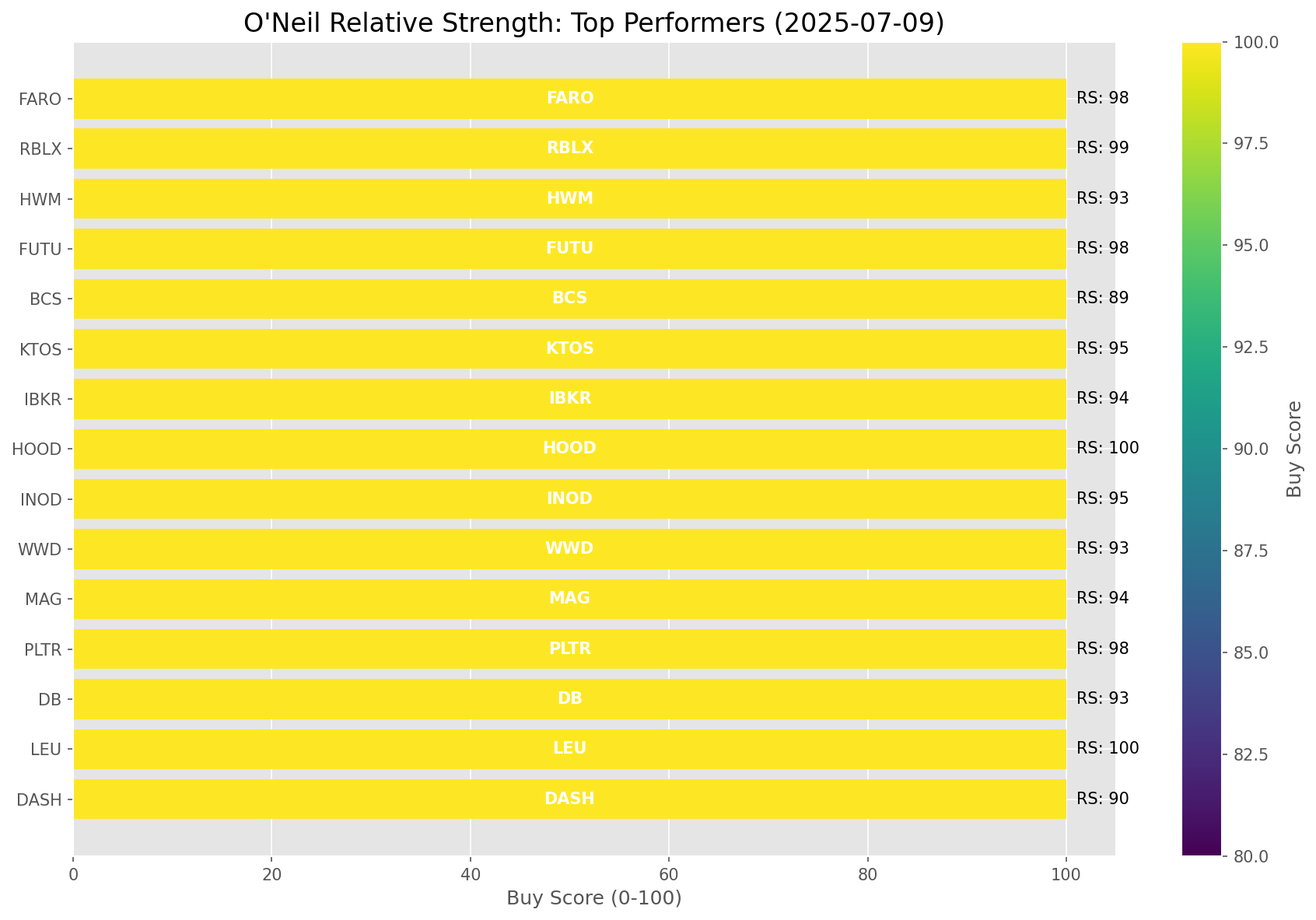
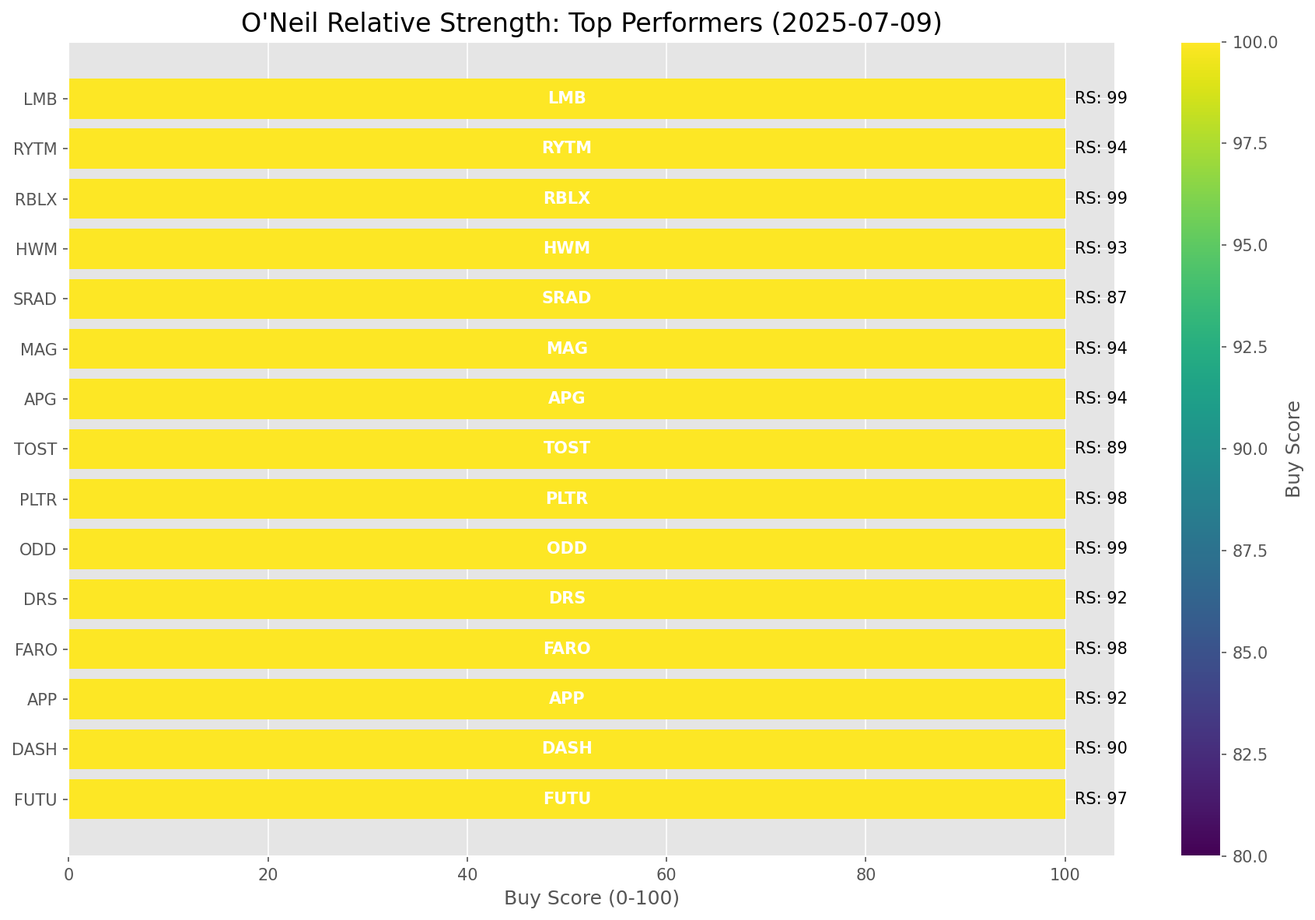
Add market report for 2025-07-09

diff --git a/oneil_relative_strength_report_2025-07-09.md b/oneil_relative_strength_report_2025-07-09.md
@@ -9,11 +9,11 @@
 | Metric | Value |
 |--------|-------|
 | **Market Valuation** | **Overvalued** |
-| **Current Ratio** | 10.25 |
+| **Current Ratio** | 10.26 |
 | **Historical Mean** | 9.42 |
 | **Standard Deviation** | 0.50 |
 | **Z-Score (StdDev from Mean)** | 1.54 |
-| **Total Market Cap** | $307.20 trillion |
+| **Total Market Cap** | $307.50 trillion |
 | **GDP** | $29.96 trillion |
 
 ## **Market Insights**
@@ -49,41 +49,41 @@ Based on William O'Neil's Relative Strength Methodology
 
 | ETF | Strength | RS Rating | Performance | Above Key MAs | Trend | Sector |
 |-----|----------|-----------|-------------|--------------|-------|--------|
-| [ARKW](https://www.tradingview.com/chart/?symbol=ARKW) | 98.5 | 97.0 | 75.55% | 10d ✓, 50d ✓, 200d ✓ | ↗ | Next Generation Internet |
-| [ARKF](https://www.tradingview.com/chart/?symbol=ARKF) | 98.0 | 96.0 | 70.98% | 10d ✓, 50d ✓, 200d ✓ | ↗ | Fintech Innovation |
-| [ARKK](https://www.tradingview.com/chart/?symbol=ARKK) | 98.0 | 96.0 | 70.67% | 10d ✓, 50d ✓, 200d ✓ | ↗ | Innovation |
-| [BLOK](https://www.tradingview.com/chart/?symbol=BLOK) | 96.0 | 92.0 | 52.65% | 10d ✓, 50d ✓, 200d ✓ | ↗ | Blockchain & Cryptocurrency |
-| [XLK](https://www.tradingview.com/chart/?symbol=XLK) | 92.5 | 85.0 | 40.28% | 10d ✓, 50d ✓, 200d ✓ | ↗ | Technology |
-| [AIQ](https://www.tradingview.com/chart/?symbol=AIQ) | 90.5 | 81.0 | 35.95% | 10d ✓, 50d ✓, 200d ✓ | ↗ | Artificial Intelligence & Technology |
-| [JETS](https://www.tradingview.com/chart/?symbol=JETS) | 89.0 | 78.0 | 32.19% | 10d ✓, 50d ✓, 200d ✓ | ↗ | Airlines |
-| [CIBR](https://www.tradingview.com/chart/?symbol=CIBR) | 89.0 | 78.0 | 32.07% | 10d ✓, 50d ✓, 200d ✓ | ↗ | Cybersecurity |
+| [ARKW](https://www.tradingview.com/chart/?symbol=ARKW) | 98.5 | 97.0 | 76.14% | 10d ✓, 50d ✓, 200d ✓ | ↗ | Next Generation Internet |
+| [ARKF](https://www.tradingview.com/chart/?symbol=ARKF) | 98.0 | 96.0 | 71.57% | 10d ✓, 50d ✓, 200d ✓ | ↗ | Fintech Innovation |
+| [ARKK](https://www.tradingview.com/chart/?symbol=ARKK) | 98.0 | 96.0 | 71.17% | 10d ✓, 50d ✓, 200d ✓ | ↗ | Innovation |
+| [BLOK](https://www.tradingview.com/chart/?symbol=BLOK) | 96.0 | 92.0 | 54.17% | 10d ✓, 50d ✓, 200d ✓ | ↗ | Blockchain & Cryptocurrency |
+| [XLK](https://www.tradingview.com/chart/?symbol=XLK) | 92.5 | 85.0 | 40.54% | 10d ✓, 50d ✓, 200d ✓ | ↗ | Technology |
+| [AIQ](https://www.tradingview.com/chart/?symbol=AIQ) | 90.5 | 81.0 | 36.06% | 10d ✓, 50d ✓, 200d ✓ | ↗ | Artificial Intelligence & Technology |
+| [JETS](https://www.tradingview.com/chart/?symbol=JETS) | 89.0 | 78.0 | 32.46% | 10d ✓, 50d ✓, 200d ✓ | ↗ | Airlines |
 | [URA](https://www.tradingview.com/chart/?symbol=URA) | 88.6 | 97.0 | 79.08% | 10d ✗, 50d ✓, 200d ✓ | ↗ | Uranium |
-| [PAVE](https://www.tradingview.com/chart/?symbol=PAVE) | 87.5 | 75.0 | 30.19% | 10d ✓, 50d ✓, 200d ✓ | ↗ | Infrastructure |
-| [XLI](https://www.tradingview.com/chart/?symbol=XLI) | 85.5 | 71.0 | 27.47% | 10d ✓, 50d ✓, 200d ✓ | ↗ | Industrial |
-| [XLY](https://www.tradingview.com/chart/?symbol=XLY) | 79.5 | 59.0 | 21.07% | 10d ✓, 50d ✓, 200d ✓ | ↗ | Consumer Discretionary |
-| [IYZ](https://www.tradingview.com/chart/?symbol=IYZ) | 77.0 | 54.0 | 18.60% | 10d ✓, 50d ✓, 200d ✓ | ↗ | Telecommunications |
-| [SOXX](https://www.tradingview.com/chart/?symbol=SOXX) | 75.5 | 91.0 | 51.31% | 10d ✓, 50d ✓, 200d ✓ | ↘ | Semiconductors |
-| [XLC](https://www.tradingview.com/chart/?symbol=XLC) | 71.1 | 62.0 | 22.67% | 10d ✗, 50d ✓, 200d ✓ | ↗ | Communications |
-| [ARKG](https://www.tradingview.com/chart/?symbol=ARKG) | 70.5 | 81.0 | 35.18% | 10d ✓, 50d ✓, 200d ✓ | ↘ | Genomics |
-| [SLV](https://www.tradingview.com/chart/?symbol=SLV) | 70.1 | 60.0 | 21.72% | 10d ✗, 50d ✓, 200d ✓ | ↗ | Silver |
-| [XLU](https://www.tradingview.com/chart/?symbol=XLU) | 70.0 | 40.0 | 11.68% | 10d ✓, 50d ✓, 200d ✓ | ↗ | Utilities |
-| [XLF](https://www.tradingview.com/chart/?symbol=XLF) | 67.1 | 54.0 | 18.61% | 10d ✗, 50d ✓, 200d ✓ | ↗ | Financial |
-| [ICLN](https://www.tradingview.com/chart/?symbol=ICLN) | 65.0 | 70.0 | 26.74% | 10d ✓, 50d ✓, 200d ✓ | ↘ | Clean Energy |
-| [KWEB](https://www.tradingview.com/chart/?symbol=KWEB) | 64.1 | 48.0 | 15.69% | 10d ✗, 50d ✓, 200d ✓ | ↗ | Chinese Internet |
-| [IYT](https://www.tradingview.com/chart/?symbol=IYT) | 64.0 | 68.0 | 25.30% | 10d ✓, 50d ✓, 200d ✓ | ↘ | Transportation |
-| [XLB](https://www.tradingview.com/chart/?symbol=XLB) | 58.0 | 56.0 | 19.54% | 10d ✓, 50d ✓, 200d ✓ | ↘ | Materials |
-| [GLD](https://www.tradingview.com/chart/?symbol=GLD) | 50.2 | 40.0 | 11.59% | 10d ✗, 50d ✗, 200d ✓ | ↗ | Gold |
-| [DBC](https://www.tradingview.com/chart/?symbol=DBC) | 46.0 | 32.0 | 8.19% | 10d ✓, 50d ✓, 200d ✓ | ↘ | Commodities |
-| [IBB](https://www.tradingview.com/chart/?symbol=IBB) | 41.8 | 44.0 | 13.48% | 10d ✓, 50d ✓, 200d ✗ | ↘ | Biotechnology |
-| [XLE](https://www.tradingview.com/chart/?symbol=XLE) | 40.8 | 42.0 | 12.47% | 10d ✓, 50d ✓, 200d ✗ | ↘ | Energy |
-| [ITB](https://www.tradingview.com/chart/?symbol=ITB) | 38.8 | 38.0 | 10.77% | 10d ✓, 50d ✓, 200d ✗ | ↘ | Home Construction |
-| [IYR](https://www.tradingview.com/chart/?symbol=IYR) | 37.8 | 36.0 | 9.70% | 10d ✓, 50d ✓, 200d ✗ | ↘ | Real Estate |
-| [XLP](https://www.tradingview.com/chart/?symbol=XLP) | 32.0 | 24.0 | 4.07% | 10d ✗, 50d ✗, 200d ✗ | ↗ | Consumer Staples |
-| [XLV](https://www.tradingview.com/chart/?symbol=XLV) | 28.3 | 17.0 | 0.59% | 10d ✓, 50d ✓, 200d ✗ | ↘ | Healthcare |
-| [DBA](https://www.tradingview.com/chart/?symbol=DBA) | 24.5 | 9.0 | -4.60% | 10d ✗, 50d ✗, 200d ✗ | ↗ | Agriculture |
-| [TLT](https://www.tradingview.com/chart/?symbol=TLT) | 14.4 | 9.0 | -3.56% | 10d ✗, 50d ✓, 200d ✗ | ↘ | Long-term Treasuries |
-| [UUP](https://www.tradingview.com/chart/?symbol=UUP) | 14.4 | 9.0 | -4.51% | 10d ✓, 50d ✗, 200d ✗ | ↘ | U.S. Dollar |
-| [BIL](https://www.tradingview.com/chart/?symbol=BIL) | 7.5 | 15.0 | 0.03% | 10d ✗, 50d ✗, 200d ✗ | ↘ | Short-term Treasuries |
+| [CIBR](https://www.tradingview.com/chart/?symbol=CIBR) | 88.5 | 77.0 | 32.25% | 10d ✓, 50d ✓, 200d ✓ | ↗ | Cybersecurity |
+| [PAVE](https://www.tradingview.com/chart/?symbol=PAVE) | 87.5 | 75.0 | 30.64% | 10d ✓, 50d ✓, 200d ✓ | ↗ | Infrastructure |
+| [XLI](https://www.tradingview.com/chart/?symbol=XLI) | 85.5 | 71.0 | 27.69% | 10d ✓, 50d ✓, 200d ✓ | ↗ | Industrial |
+| [XLY](https://www.tradingview.com/chart/?symbol=XLY) | 79.0 | 58.0 | 21.21% | 10d ✓, 50d ✓, 200d ✓ | ↗ | Consumer Discretionary |
+| [XLF](https://www.tradingview.com/chart/?symbol=XLF) | 77.0 | 54.0 | 18.85% | 10d ✓, 50d ✓, 200d ✓ | ↗ | Financial |
+| [IYZ](https://www.tradingview.com/chart/?symbol=IYZ) | 76.5 | 53.0 | 18.50% | 10d ✓, 50d ✓, 200d ✓ | ↗ | Telecommunications |
+| [SOXX](https://www.tradingview.com/chart/?symbol=SOXX) | 75.5 | 91.0 | 51.37% | 10d ✓, 50d ✓, 200d ✓ | ↘ | Semiconductors |
+| [XLC](https://www.tradingview.com/chart/?symbol=XLC) | 70.6 | 61.0 | 22.56% | 10d ✗, 50d ✓, 200d ✓ | ↗ | Communications |
+| [ARKG](https://www.tradingview.com/chart/?symbol=ARKG) | 70.5 | 81.0 | 35.78% | 10d ✓, 50d ✓, 200d ✓ | ↘ | Genomics |
+| [SLV](https://www.tradingview.com/chart/?symbol=SLV) | 69.6 | 59.0 | 21.59% | 10d ✗, 50d ✓, 200d ✓ | ↗ | Silver |
+| [XLU](https://www.tradingview.com/chart/?symbol=XLU) | 69.5 | 39.0 | 11.60% | 10d ✓, 50d ✓, 200d ✓ | ↗ | Utilities |
+| [ICLN](https://www.tradingview.com/chart/?symbol=ICLN) | 65.0 | 70.0 | 26.51% | 10d ✓, 50d ✓, 200d ✓ | ↘ | Clean Energy |
+| [KWEB](https://www.tradingview.com/chart/?symbol=KWEB) | 64.1 | 48.0 | 15.91% | 10d ✗, 50d ✓, 200d ✓ | ↗ | Chinese Internet |
+| [IYT](https://www.tradingview.com/chart/?symbol=IYT) | 63.5 | 67.0 | 25.32% | 10d ✓, 50d ✓, 200d ✓ | ↘ | Transportation |
+| [XLB](https://www.tradingview.com/chart/?symbol=XLB) | 58.0 | 56.0 | 19.77% | 10d ✓, 50d ✓, 200d ✓ | ↘ | Materials |
+| [GLD](https://www.tradingview.com/chart/?symbol=GLD) | 49.7 | 39.0 | 11.62% | 10d ✗, 50d ✗, 200d ✓ | ↗ | Gold |
+| [DBC](https://www.tradingview.com/chart/?symbol=DBC) | 45.5 | 31.0 | 8.10% | 10d ✓, 50d ✓, 200d ✓ | ↘ | Commodities |
+| [IBB](https://www.tradingview.com/chart/?symbol=IBB) | 41.8 | 44.0 | 13.84% | 10d ✓, 50d ✓, 200d ✗ | ↘ | Biotechnology |
+| [XLE](https://www.tradingview.com/chart/?symbol=XLE) | 40.3 | 41.0 | 12.54% | 10d ✓, 50d ✓, 200d ✗ | ↘ | Energy |
+| [ITB](https://www.tradingview.com/chart/?symbol=ITB) | 39.8 | 40.0 | 11.81% | 10d ✓, 50d ✓, 200d ✗ | ↘ | Home Construction |
+| [IYR](https://www.tradingview.com/chart/?symbol=IYR) | 37.3 | 35.0 | 9.63% | 10d ✓, 50d ✓, 200d ✗ | ↘ | Real Estate |
+| [XLP](https://www.tradingview.com/chart/?symbol=XLP) | 32.0 | 24.0 | 4.22% | 10d ✗, 50d ✗, 200d ✗ | ↗ | Consumer Staples |
+| [XLV](https://www.tradingview.com/chart/?symbol=XLV) | 28.3 | 17.0 | 0.76% | 10d ✓, 50d ✓, 200d ✗ | ↘ | Healthcare |
+| [DBA](https://www.tradingview.com/chart/?symbol=DBA) | 26.0 | 12.0 | -0.80% | 10d ✗, 50d ✗, 200d ✗ | ↗ | Agriculture |
+| [TLT](https://www.tradingview.com/chart/?symbol=TLT) | 14.4 | 9.0 | -3.46% | 10d ✗, 50d ✓, 200d ✗ | ↘ | Long-term Treasuries |
+| [UUP](https://www.tradingview.com/chart/?symbol=UUP) | 13.9 | 8.0 | -4.55% | 10d ✓, 50d ✗, 200d ✗ | ↘ | U.S. Dollar |
+| [BIL](https://www.tradingview.com/chart/?symbol=BIL) | 7.0 | 14.0 | 0.03% | 10d ✗, 50d ✗, 200d ✗ | ↘ | Short-term Treasuries |
 
 ### **Sector ETF Performance Interpretation**
 
@@ -100,165 +100,156 @@ This table shows the relative strength metrics for different market sectors base
 
 The current market leadership is coming from the following sectors: **Next Generation Internet, Fintech Innovation, Innovation**.
 
-The **Next Generation Internet** sector (represented by **ARKW**) is showing particularly strong relative strength with an RS rating of 97.0 and performance of 75.55% vs. the S&P 500. This sector is trading above its 10-day, 50-day, 200-day moving average(s). Investors should consider focusing on high RS stocks within these leading sectors for potential outperformance.
+The **Next Generation Internet** sector (represented by **ARKW**) is showing particularly strong relative strength with an RS rating of 97.0 and performance of 76.14% vs. the S&P 500. This sector is trading above its 10-day, 50-day, 200-day moving average(s). Investors should consider focusing on high RS stocks within these leading sectors for potential outperformance.
 
 ---
 
 ## **Buy Recommendations**
 
-The following 47 stocks show exceptional relative strength:
+The following 55 stocks show exceptional relative strength:
 
 | RS Rating | Buy Score | Current Price | Chart | Name | Ticker |
 |-----------|-----------|---------------|-------|------|--------|
-| 100 | 100 | $177.65 | [Chart](https://www.tradingview.com/chart/?symbol=LEU) | Centrus Energy Corp. | LEU |
-| 100 | 100 | $93.77 | [Chart](https://www.tradingview.com/chart/?symbol=HOOD) | Robinhood Markets, Inc. Class A Common Stock | HOOD |
-| 99 | 100 | $106.47 | [Chart](https://www.tradingview.com/chart/?symbol=RBLX) | Roblox Corporation | RBLX |
-| 99 | 100 | $143.48 | [Chart](https://www.tradingview.com/chart/?symbol=LMB) | Limbach Holdings, Inc Common Stock | LMB |
-| 99 | 100 | $76.25 | [Chart](https://www.tradingview.com/chart/?symbol=ODD) | ODDITY Tech Ltd. Class A Ordinary Shares | ODD |
-| 99 | 100 | $349.91 | [Chart](https://www.tradingview.com/chart/?symbol=CVNA) | Carvana Co. | CVNA |
-| 98 | 100 | $142.50 | [Chart](https://www.tradingview.com/chart/?symbol=PLTR) | Palantir Technologies Inc. Class A Common Stock | PLTR |
-| 98 | 100 | $143.06 | [Chart](https://www.tradingview.com/chart/?symbol=FUTU) | Futu Holdings Limited American Depositary Shares | FUTU |
-| 98 | 100 | $43.92 | [Chart](https://www.tradingview.com/chart/?symbol=FARO) | Faro Technologies Inc | FARO |
-| 98 | 100 | $104.75 | [Chart](https://www.tradingview.com/chart/?symbol=VRNA) | Verona Pharma plc | VRNA |
-| 98 | 100 | $536.32 | [Chart](https://www.tradingview.com/chart/?symbol=GEV) | GE Vernova Inc. | GEV |
-| 97 | 100 | $316.80 | [Chart](https://www.tradingview.com/chart/?symbol=ZS) | Zscaler, Inc. Common Stock | ZS |
-| 96 | 100 | $91.65 | [Chart](https://www.tradingview.com/chart/?symbol=RBRK) | Rubrik, Inc. | RBRK |
-| 96 | 100 | $51.05 | [Chart](https://www.tradingview.com/chart/?symbol=ARKF) | ARK Fintech Innovation ETF | ARKF |
-| 96 | 100 | $38.38 | [Chart](https://www.tradingview.com/chart/?symbol=AS) | Amer Sports, Inc. | AS |
-| 95 | 100 | $51.78 | [Chart](https://www.tradingview.com/chart/?symbol=INOD) | Innodata Inc. | INOD |
-| 95 | 100 | $45.96 | [Chart](https://www.tradingview.com/chart/?symbol=KTOS) | Kratos Defense & Security Solutions, Inc. | KTOS |
-| 94 | 100 | $21.37 | [Chart](https://www.tradingview.com/chart/?symbol=MAG) | MAG Silver Corp. | MAG |
-| 94 | 100 | $58.27 | [Chart](https://www.tradingview.com/chart/?symbol=IBKR) | Interactive Brokers Group, Inc. Class A Common Stock | IBKR |
-| 94 | 100 | $87.04 | [Chart](https://www.tradingview.com/chart/?symbol=RYTM) | Rhythm Pharmaceuticals, Inc. Common Stock | RYTM |
-| 93 | 100 | $30.34 | [Chart](https://www.tradingview.com/chart/?symbol=DB) | Deutsche Bank Aktiengesellschaft | DB |
-| 93 | 100 | $251.66 | [Chart](https://www.tradingview.com/chart/?symbol=WWD) | Woodward, Inc. | WWD |
+| 100 | 100 | $36.53 | [Chart](https://www.tradingview.com/chart/?symbol=GRPN) | Groupon, Inc.Common Stock | GRPN |
+| 100 | 100 | $179.37 | [Chart](https://www.tradingview.com/chart/?symbol=LEU) | Centrus Energy Corp. | LEU |
+| 100 | 100 | $94.54 | [Chart](https://www.tradingview.com/chart/?symbol=HOOD) | Robinhood Markets, Inc. Class A Common Stock | HOOD |
+| 99 | 100 | $75.77 | [Chart](https://www.tradingview.com/chart/?symbol=ODD) | ODDITY Tech Ltd. Class A Ordinary Shares | ODD |
+| 99 | 100 | $106.68 | [Chart](https://www.tradingview.com/chart/?symbol=RBLX) | Roblox Corporation | RBLX |
+| 99 | 100 | $145.69 | [Chart](https://www.tradingview.com/chart/?symbol=LMB) | Limbach Holdings, Inc Common Stock | LMB |
+| 99 | 100 | $351.09 | [Chart](https://www.tradingview.com/chart/?symbol=CVNA) | Carvana Co. | CVNA |
+| 98 | 100 | $43.90 | [Chart](https://www.tradingview.com/chart/?symbol=FARO) | Faro Technologies Inc | FARO |
+| 98 | 100 | $143.13 | [Chart](https://www.tradingview.com/chart/?symbol=PLTR) | Palantir Technologies Inc. Class A Common Stock | PLTR |
+| 98 | 100 | $104.77 | [Chart](https://www.tradingview.com/chart/?symbol=VRNA) | Verona Pharma plc | VRNA |
+| 98 | 100 | $535.77 | [Chart](https://www.tradingview.com/chart/?symbol=GEV) | GE Vernova Inc. | GEV |
+| 97 | 100 | $142.40 | [Chart](https://www.tradingview.com/chart/?symbol=FUTU) | Futu Holdings Limited American Depositary Shares | FUTU |
+| 97 | 100 | $316.50 | [Chart](https://www.tradingview.com/chart/?symbol=ZS) | Zscaler, Inc. Common Stock | ZS |
+| 96 | 100 | $49.06 | [Chart](https://www.tradingview.com/chart/?symbol=REVG) | REV Group, Inc. | REVG |
+| 96 | 100 | $51.23 | [Chart](https://www.tradingview.com/chart/?symbol=ARKF) | ARK Fintech Innovation ETF | ARKF |
+| 96 | 100 | $91.59 | [Chart](https://www.tradingview.com/chart/?symbol=RBRK) | Rubrik, Inc. | RBRK |
+| 96 | 100 | $38.50 | [Chart](https://www.tradingview.com/chart/?symbol=AS) | Amer Sports, Inc. | AS |
+| 95 | 100 | $52.04 | [Chart](https://www.tradingview.com/chart/?symbol=INOD) | Innodata Inc. | INOD |
+| 94 | 100 | $34.49 | [Chart](https://www.tradingview.com/chart/?symbol=APG) | APi Group Corporation | APG |
+| 94 | 100 | $21.36 | [Chart](https://www.tradingview.com/chart/?symbol=MAG) | MAG Silver Corp. | MAG |
+| 94 | 100 | $89.00 | [Chart](https://www.tradingview.com/chart/?symbol=RYTM) | Rhythm Pharmaceuticals, Inc. Common Stock | RYTM |
+| 94 | 100 | $46.02 | [Chart](https://www.tradingview.com/chart/?symbol=KTOS) | Kratos Defense & Security Solutions, Inc. | KTOS |
+| 94 | 100 | $57.84 | [Chart](https://www.tradingview.com/chart/?symbol=IBKR) | Interactive Brokers Group, Inc. Class A Common Stock | IBKR |
 | 93 | 100 | $181.42 | [Chart](https://www.tradingview.com/chart/?symbol=HWM) | Howmet Aerospace Inc. | HWM |
-| 93 | 100 | $510.81 | [Chart](https://www.tradingview.com/chart/?symbol=CRWD) | CrowdStrike Holdings, Inc. Class A Common Stock | CRWD |
-| 92 | 100 | $46.83 | [Chart](https://www.tradingview.com/chart/?symbol=DRS) | Leonardo DRS, Inc. Common Stock | DRS |
-| 92 | 100 | $354.66 | [Chart](https://www.tradingview.com/chart/?symbol=APP) | Applovin Corporation Class A Common Stock | APP |
-| 92 | 100 | $43.00 | [Chart](https://www.tradingview.com/chart/?symbol=KD) | Kyndryl Holdings, Inc. | KD |
-| 91 | 100 | $46.05 | [Chart](https://www.tradingview.com/chart/?symbol=BBIO) | BridgeBio Pharma, Inc. Common Stock | BBIO |
-| 91 | 100 | $94.77 | [Chart](https://www.tradingview.com/chart/?symbol=TPR) | Tapestry, Inc. Common Stock | TPR |
-| 91 | 100 | $289.39 | [Chart](https://www.tradingview.com/chart/?symbol=RL) | Ralph Lauren Corporation | RL |
-| 90 | 100 | $245.69 | [Chart](https://www.tradingview.com/chart/?symbol=DASH) | DoorDash, Inc. Class A Common Stock | DASH |
-| 89 | 100 | $18.59 | [Chart](https://www.tradingview.com/chart/?symbol=BCS) | Barclays PLC | BCS |
-| 87 | 100 | $29.32 | [Chart](https://www.tradingview.com/chart/?symbol=SRAD) | Sportradar Group AG Class A Ordinary Shares | SRAD |
-| 89 | 99 | $102.81 | [Chart](https://www.tradingview.com/chart/?symbol=SANM) | Sanmina  Corp | SANM |
-| 89 | 99 | $29.77 | [Chart](https://www.tradingview.com/chart/?symbol=NTGR) | NETGEAR, Inc. | NTGR |
-| 86 | 99 | $29.64 | [Chart](https://www.tradingview.com/chart/?symbol=CAE) | CAE INC | CAE |
-| 86 | 96 | $62.40 | [Chart](https://www.tradingview.com/chart/?symbol=IBIT) | iShares Bitcoin Trust ETF | IBIT |
-| 85 | 96 | $25.13 | [Chart](https://www.tradingview.com/chart/?symbol=KAR) | OPENLANE, Inc | KAR |
-| 85 | 96 | $35.98 | [Chart](https://www.tradingview.com/chart/?symbol=ATAT) | Atour Lifestyle Holdings Limited American Depositary Shares | ATAT |
-| 84 | 96 | $60.27 | [Chart](https://www.tradingview.com/chart/?symbol=SHLD) | Global X Defense Tech ETF | SHLD |
-| 82 | 96 | $95.80 | [Chart](https://www.tradingview.com/chart/?symbol=SNEX) | StoneX Group Inc. Common Stock | SNEX |
-| 85 | 95 | $46.62 | [Chart](https://www.tradingview.com/chart/?symbol=AU) | AngloGold Ashanti plc | AU |
-| 85 | 94 | $48.31 | [Chart](https://www.tradingview.com/chart/?symbol=SIL) | Global X Silver Miners ETF (NEW) | SIL |
-| 83 | 94 | $76.02 | [Chart](https://www.tradingview.com/chart/?symbol=CTVA) | Corteva, Inc. Common Stock | CTVA |
-| 82 | 94 | $26.52 | [Chart](https://www.tradingview.com/chart/?symbol=OR) | OR Royalties Inc. | OR |
-| 82 | 92 | $256.36 | [Chart](https://www.tradingview.com/chart/?symbol=WTS) | Watts Water Technologies, Inc. Class A | WTS |
-| 80 | 90 | $112.10 | [Chart](https://www.tradingview.com/chart/?symbol=SPMO) | Invesco S&P 500 Momentum ETF | SPMO |
+| 93 | 100 | $71.93 | [Chart](https://www.tradingview.com/chart/?symbol=URBN) | Urban Outfitters Inc | URBN |
+| 93 | 100 | $30.38 | [Chart](https://www.tradingview.com/chart/?symbol=DB) | Deutsche Bank Aktiengesellschaft | DB |
+| 93 | 100 | $252.03 | [Chart](https://www.tradingview.com/chart/?symbol=WWD) | Woodward, Inc. | WWD |
+| 93 | 100 | $513.51 | [Chart](https://www.tradingview.com/chart/?symbol=CRWD) | CrowdStrike Holdings, Inc. Class A Common Stock | CRWD |
+| 92 | 100 | $352.74 | [Chart](https://www.tradingview.com/chart/?symbol=APP) | Applovin Corporation Class A Common Stock | APP |
+| 92 | 100 | $47.01 | [Chart](https://www.tradingview.com/chart/?symbol=DRS) | Leonardo DRS, Inc. Common Stock | DRS |
+| 92 | 100 | $42.85 | [Chart](https://www.tradingview.com/chart/?symbol=KD) | Kyndryl Holdings, Inc. | KD |
+| 91 | 100 | $95.31 | [Chart](https://www.tradingview.com/chart/?symbol=TPR) | Tapestry, Inc. Common Stock | TPR |
+| 91 | 100 | $45.98 | [Chart](https://www.tradingview.com/chart/?symbol=BBIO) | BridgeBio Pharma, Inc. Common Stock | BBIO |
+| 91 | 100 | $290.56 | [Chart](https://www.tradingview.com/chart/?symbol=RL) | Ralph Lauren Corporation | RL |
+| 90 | 100 | $246.06 | [Chart](https://www.tradingview.com/chart/?symbol=DASH) | DoorDash, Inc. Class A Common Stock | DASH |
+| 90 | 100 | $250.33 | [Chart](https://www.tradingview.com/chart/?symbol=GE) | GE Aerospace | GE |
+| 89 | 100 | $44.64 | [Chart](https://www.tradingview.com/chart/?symbol=TOST) | Toast, Inc. | TOST |
+| 89 | 100 | $18.63 | [Chart](https://www.tradingview.com/chart/?symbol=BCS) | Barclays PLC | BCS |
+| 88 | 100 | $64.14 | [Chart](https://www.tradingview.com/chart/?symbol=CAKE) | Cheesecake Factory (The) | CAKE |
+| 87 | 100 | $29.41 | [Chart](https://www.tradingview.com/chart/?symbol=SRAD) | Sportradar Group AG Class A Ordinary Shares | SRAD |
+| 89 | 99 | $103.46 | [Chart](https://www.tradingview.com/chart/?symbol=SANM) | Sanmina  Corp | SANM |
+| 89 | 99 | $29.98 | [Chart](https://www.tradingview.com/chart/?symbol=NTGR) | NETGEAR, Inc. | NTGR |
+| 88 | 99 | $31.65 | [Chart](https://www.tradingview.com/chart/?symbol=HODL) | VanEck Bitcoin ETF | HODL |
+| 88 | 99 | $49.57 | [Chart](https://www.tradingview.com/chart/?symbol=BTC) | Grayscale Bitcoin Mini Trust ETF | BTC |
+| 88 | 98 | $63.58 | [Chart](https://www.tradingview.com/chart/?symbol=IBIT) | iShares Bitcoin Trust ETF | IBIT |
+| 85 | 98 | $29.54 | [Chart](https://www.tradingview.com/chart/?symbol=CAE) | CAE INC | CAE |
+| 86 | 97 | $36.21 | [Chart](https://www.tradingview.com/chart/?symbol=ATAT) | Atour Lifestyle Holdings Limited American Depositary Shares | ATAT |
+| 83 | 97 | $97.10 | [Chart](https://www.tradingview.com/chart/?symbol=SNEX) | StoneX Group Inc. Common Stock | SNEX |
+| 85 | 96 | $25.24 | [Chart](https://www.tradingview.com/chart/?symbol=KAR) | OPENLANE, Inc | KAR |
+| 84 | 96 | $60.30 | [Chart](https://www.tradingview.com/chart/?symbol=SHLD) | Global X Defense Tech ETF | SHLD |
+| 85 | 95 | $46.53 | [Chart](https://www.tradingview.com/chart/?symbol=AU) | AngloGold Ashanti plc | AU |
+| 82 | 94 | $26.62 | [Chart](https://www.tradingview.com/chart/?symbol=OR) | OR Royalties Inc. | OR |
+| 82 | 93 | $76.20 | [Chart](https://www.tradingview.com/chart/?symbol=CTVA) | Corteva, Inc. Common Stock | CTVA |
+| 82 | 92 | $256.57 | [Chart](https://www.tradingview.com/chart/?symbol=WTS) | Watts Water Technologies, Inc. Class A | WTS |
+| 80 | 90 | $112.07 | [Chart](https://www.tradingview.com/chart/?symbol=SPMO) | Invesco S&P 500 Momentum ETF | SPMO |
 
 ---
 
 
 ## **Sell Recommendations**
 
-The following 92 stocks show deteriorating relative strength:
+The following 75 stocks show deteriorating relative strength:
 
 | RS Rating | Sell Score | Current Price | Chart | Name | Ticker |
 |-----------|------------|---------------|-------|------|--------|
-| 1 | 100 | $25.00 | [Chart](https://www.tradingview.com/chart/?symbol=QID) | ProShares UltraShort QQQ | QID |
-| 1 | 100 | $25.48 | [Chart](https://www.tradingview.com/chart/?symbol=TECS) | Direxion Daily Technology Bear 3x Shares | TECS |
-| 1 | 100 | $16.41 | [Chart](https://www.tradingview.com/chart/?symbol=SDS) | ProShares UltraShort S&P500 | SDS |
-| 1 | 100 | $40.62 | [Chart](https://www.tradingview.com/chart/?symbol=SDOW) | ProShares UltraPro Short Dow 30 | SDOW |
-| 2 | 100 | $23.91 | [Chart](https://www.tradingview.com/chart/?symbol=DXD) | ProShares UltraShort Dow 30 | DXD |
-| 2 | 100 | $33.46 | [Chart](https://www.tradingview.com/chart/?symbol=PSQ) | ProShares Short QQQ | PSQ |
-| 2 | 100 | $19.28 | [Chart](https://www.tradingview.com/chart/?symbol=BITI) | ProShares Short Bitcoin ETF | BITI |
-| 2 | 100 | $12.93 | [Chart](https://www.tradingview.com/chart/?symbol=IART) | Integra LifeSciences Holdings | IART |
-| 2 | 100 | $34.79 | [Chart](https://www.tradingview.com/chart/?symbol=SARK) | Investment Managers Series Trust II Tradr 1X Short Innovation Daily ETF | SARK |
-| 3 | 100 | $42.94 | [Chart](https://www.tradingview.com/chart/?symbol=LINE) | Lineage, Inc. Common Stock | LINE |
-| 3 | 100 | $24.59 | [Chart](https://www.tradingview.com/chart/?symbol=CRTO) | Criteo S.A. | CRTO |
-| 3 | 100 | $12.53 | [Chart](https://www.tradingview.com/chart/?symbol=CCRN) | Cross Country Healthcare Inc | CCRN |
-| 3 | 100 | $39.41 | [Chart](https://www.tradingview.com/chart/?symbol=SH) | ProShares Short S&P500 | SH |
-| 3 | 100 | $25.34 | [Chart](https://www.tradingview.com/chart/?symbol=DOG) | ProShares Short Dow30 | DOG |
-| 3 | 100 | $16.91 | [Chart](https://www.tradingview.com/chart/?symbol=HP) | Helmerich & Payne, Inc. | HP |
-| 3 | 100 | $10.51 | [Chart](https://www.tradingview.com/chart/?symbol=EMBC) | Embecta Corp. Common Stock | EMBC |
-| 3 | 100 | $37.12 | [Chart](https://www.tradingview.com/chart/?symbol=IBTA) | Ibotta, Inc. | IBTA |
-| 4 | 100 | $10.34 | [Chart](https://www.tradingview.com/chart/?symbol=LBTYK) | Liberty Global Ltd. Class C Common Shares | LBTYK |
-| 4 | 100 | $64.86 | [Chart](https://www.tradingview.com/chart/?symbol=ZROZ) | PIMCO 25+ Year Zero Coupon U.S. Treasury Index Exchange-Traded Fund | ZROZ |
-| 4 | 100 | $83.32 | [Chart](https://www.tradingview.com/chart/?symbol=LNTH) | Lantheus Holdings, Inc | LNTH |
-| 5 | 100 | $16.25 | [Chart](https://www.tradingview.com/chart/?symbol=COLD) | Americold Realty Trust, Inc. | COLD |
-| 5 | 100 | $32.24 | [Chart](https://www.tradingview.com/chart/?symbol=CRI) | Carter's Inc. | CRI |
-| 5 | 100 | $10.06 | [Chart](https://www.tradingview.com/chart/?symbol=LBTYA) | Liberty Global Ltd. Class A Common Shares | LBTYA |
-| 6 | 100 | $49.23 | [Chart](https://www.tradingview.com/chart/?symbol=CCOI) | Cogent Communications Holdings, Inc. | CCOI |
-| 6 | 100 | $51.45 | [Chart](https://www.tradingview.com/chart/?symbol=LW) | Lamb Weston Holdings, Inc. | LW |
-| 7 | 100 | $14.55 | [Chart](https://www.tradingview.com/chart/?symbol=SEM) | SELECT MEDICAL HOLDINGS CORP | SEM |
-| 8 | 100 | $14.60 | [Chart](https://www.tradingview.com/chart/?symbol=VRE) | Veris Residential, Inc. | VRE |
-| 8 | 100 | $77.00 | [Chart](https://www.tradingview.com/chart/?symbol=CNS) | Cohen & Steers Inc. | CNS |
-| 8 | 100 | $52.52 | [Chart](https://www.tradingview.com/chart/?symbol=CNMD) | CONMED Corporation | CNMD |
-| 8 | 100 | $10.39 | [Chart](https://www.tradingview.com/chart/?symbol=NMZ) | Nuveen Municipal High Income Opportunity Fund | NMZ |
-| 11 | 100 | $40.82 | [Chart](https://www.tradingview.com/chart/?symbol=POR) | Portland General Electric Company | POR |
-| 11 | 100 | $38.65 | [Chart](https://www.tradingview.com/chart/?symbol=LKQ) | LKQ Corporation | LKQ |
-| 11 | 100 | $131.28 | [Chart](https://www.tradingview.com/chart/?symbol=KMB) | Kimberly-Clark Corp. | KMB |
+| 1 | 100 | $25.37 | [Chart](https://www.tradingview.com/chart/?symbol=TECS) | Direxion Daily Technology Bear 3x Shares | TECS |
+| 1 | 100 | $24.94 | [Chart](https://www.tradingview.com/chart/?symbol=QID) | ProShares UltraShort QQQ | QID |
+| 1 | 100 | $16.38 | [Chart](https://www.tradingview.com/chart/?symbol=SDS) | ProShares UltraShort S&P500 | SDS |
+| 1 | 100 | $40.48 | [Chart](https://www.tradingview.com/chart/?symbol=SDOW) | ProShares UltraPro Short Dow 30 | SDOW |
+| 2 | 100 | $23.85 | [Chart](https://www.tradingview.com/chart/?symbol=DXD) | ProShares UltraShort Dow 30 | DXD |
+| 2 | 100 | $18.90 | [Chart](https://www.tradingview.com/chart/?symbol=BITI) | ProShares Short Bitcoin ETF | BITI |
+| 2 | 100 | $34.67 | [Chart](https://www.tradingview.com/chart/?symbol=SARK) | Investment Managers Series Trust II Tradr 1X Short Innovation Daily ETF | SARK |
+| 2 | 100 | $33.43 | [Chart](https://www.tradingview.com/chart/?symbol=PSQ) | ProShares Short QQQ | PSQ |
+| 2 | 100 | $13.05 | [Chart](https://www.tradingview.com/chart/?symbol=IART) | Integra LifeSciences Holdings | IART |
+| 3 | 100 | $25.29 | [Chart](https://www.tradingview.com/chart/?symbol=DOG) | ProShares Short Dow30 | DOG |
+| 3 | 100 | $39.35 | [Chart](https://www.tradingview.com/chart/?symbol=SH) | ProShares Short S&P500 | SH |
+| 3 | 100 | $24.78 | [Chart](https://www.tradingview.com/chart/?symbol=CRTO) | Criteo S.A. | CRTO |
+| 3 | 100 | $17.08 | [Chart](https://www.tradingview.com/chart/?symbol=HP) | Helmerich & Payne, Inc. | HP |
+| 3 | 100 | $12.55 | [Chart](https://www.tradingview.com/chart/?symbol=CCRN) | Cross Country Healthcare Inc | CCRN |
+| 3 | 100 | $37.27 | [Chart](https://www.tradingview.com/chart/?symbol=IBTA) | Ibotta, Inc. | IBTA |
+| 3 | 100 | $42.86 | [Chart](https://www.tradingview.com/chart/?symbol=LINE) | Lineage, Inc. Common Stock | LINE |
+| 4 | 100 | $65.01 | [Chart](https://www.tradingview.com/chart/?symbol=ZROZ) | PIMCO 25+ Year Zero Coupon U.S. Treasury Index Exchange-Traded Fund | ZROZ |
+| 4 | 100 | $16.26 | [Chart](https://www.tradingview.com/chart/?symbol=COLD) | Americold Realty Trust, Inc. | COLD |
+| 4 | 100 | $10.37 | [Chart](https://www.tradingview.com/chart/?symbol=LBTYK) | Liberty Global Ltd. Class C Common Shares | LBTYK |
+| 5 | 100 | $51.26 | [Chart](https://www.tradingview.com/chart/?symbol=LW) | Lamb Weston Holdings, Inc. | LW |
+| 5 | 100 | $32.47 | [Chart](https://www.tradingview.com/chart/?symbol=CRI) | Carter's Inc. | CRI |
+| 5 | 100 | $10.09 | [Chart](https://www.tradingview.com/chart/?symbol=LBTYA) | Liberty Global Ltd. Class A Common Shares | LBTYA |
+| 8 | 100 | $52.91 | [Chart](https://www.tradingview.com/chart/?symbol=CNMD) | CONMED Corporation | CNMD |
+| 8 | 100 | $14.59 | [Chart](https://www.tradingview.com/chart/?symbol=VRE) | Veris Residential, Inc. | VRE |
+| 8 | 100 | $10.35 | [Chart](https://www.tradingview.com/chart/?symbol=NMZ) | Nuveen Municipal High Income Opportunity Fund | NMZ |
+| 10 | 100 | $96.35 | [Chart](https://www.tradingview.com/chart/?symbol=RWR) | SPDR Dow Jones REIT ETF | RWR |
 | 11 | 100 | $17.70 | [Chart](https://www.tradingview.com/chart/?symbol=ZTO) | ZTO Express (Cayman) Inc. American Depositary Shares, each representing one Class A ordinary share | ZTO |
-| 11 | 100 | $96.48 | [Chart](https://www.tradingview.com/chart/?symbol=RWR) | SPDR Dow Jones REIT ETF | RWR |
-| 14 | 100 | $29.15 | [Chart](https://www.tradingview.com/chart/?symbol=SPTS) | SPDR Portfolio Short Term Treasury ETF | SPTS |
-| 2 | 99 | $236.91 | [Chart](https://www.tradingview.com/chart/?symbol=MOH) | Molina Healthcare, Inc. | MOH |
-| 4 | 99 | $10.74 | [Chart](https://www.tradingview.com/chart/?symbol=SONO) | Sonos, Inc. Common Stock | SONO |
-| 5 | 99 | $17.07 | [Chart](https://www.tradingview.com/chart/?symbol=NOMD) | Nomad Foods Limited | NOMD |
-| 6 | 99 | $12.82 | [Chart](https://www.tradingview.com/chart/?symbol=GO) | Grocery Outlet Holding Corp. Common Stock | GO |
-| 6 | 99 | $26.88 | [Chart](https://www.tradingview.com/chart/?symbol=VCYT) | Veracyte, Inc. | VCYT |
-| 10 | 99 | $71.29 | [Chart](https://www.tradingview.com/chart/?symbol=TNET) | TRINET GROUP, INC. | TNET |
-| 10 | 99 | $46.20 | [Chart](https://www.tradingview.com/chart/?symbol=CWT) | California Water Service | CWT |
-| 13 | 98 | $82.90 | [Chart](https://www.tradingview.com/chart/?symbol=KSPI) | Joint Stock Company Kaspi.kz American Depository Shares | KSPI |
+| 11 | 100 | $40.91 | [Chart](https://www.tradingview.com/chart/?symbol=POR) | Portland General Electric Company | POR |
+| 13 | 100 | $29.16 | [Chart](https://www.tradingview.com/chart/?symbol=SPTS) | SPDR Portfolio Short Term Treasury ETF | SPTS |
+| 3 | 99 | $10.60 | [Chart](https://www.tradingview.com/chart/?symbol=EMBC) | Embecta Corp. Common Stock | EMBC |
+| 6 | 99 | $49.28 | [Chart](https://www.tradingview.com/chart/?symbol=CCOI) | Cogent Communications Holdings, Inc. | CCOI |
+| 11 | 99 | $131.49 | [Chart](https://www.tradingview.com/chart/?symbol=KMB) | Kimberly-Clark Corp. | KMB |
+| 6 | 98 | $27.08 | [Chart](https://www.tradingview.com/chart/?symbol=VCYT) | Veracyte, Inc. | VCYT |
+| 11 | 98 | $38.85 | [Chart](https://www.tradingview.com/chart/?symbol=LKQ) | LKQ Corporation | LKQ |
 | 6 | 97 | $25.28 | [Chart](https://www.tradingview.com/chart/?symbol=DRV) | Direxion Daily Real Estate Bear 3X Shares | DRV |
-| 12 | 97 | $104.67 | [Chart](https://www.tradingview.com/chart/?symbol=DECK) | Deckers Outdoor Corp | DECK |
+| 6 | 97 | $17.11 | [Chart](https://www.tradingview.com/chart/?symbol=NOMD) | Nomad Foods Limited | NOMD |
+| 10 | 97 | $46.27 | [Chart](https://www.tradingview.com/chart/?symbol=CWT) | California Water Service | CWT |
+| 10 | 97 | $71.64 | [Chart](https://www.tradingview.com/chart/?symbol=TNET) | TRINET GROUP, INC. | TNET |
+| 13 | 97 | $82.84 | [Chart](https://www.tradingview.com/chart/?symbol=KSPI) | Joint Stock Company Kaspi.kz American Depository Shares | KSPI |
+| 12 | 96 | $104.91 | [Chart](https://www.tradingview.com/chart/?symbol=DECK) | Deckers Outdoor Corp | DECK |
+| 14 | 96 | $77.08 | [Chart](https://www.tradingview.com/chart/?symbol=CNS) | Cohen & Steers Inc. | CNS |
 | 14 | 96 | $22.85 | [Chart](https://www.tradingview.com/chart/?symbol=IBTG) | iShares iBonds Dec 2026 Term Treasury ETF | IBTG |
-| 8 | 95 | $68.95 | [Chart](https://www.tradingview.com/chart/?symbol=BRC) | Brady Corporation | BRC |
-| 9 | 95 | $48.84 | [Chart](https://www.tradingview.com/chart/?symbol=SNY) | Sanofi American Depositary Shares (Each representing one-half of one ordinary share) | SNY |
-| 9 | 95 | $62.88 | [Chart](https://www.tradingview.com/chart/?symbol=COLM) | Columbia Sportswear Co | COLM |
-| 11 | 95 | $61.98 | [Chart](https://www.tradingview.com/chart/?symbol=ELS) | Equity Lifestyle Properties, Inc. | ELS |
-| 15 | 92 | $162.71 | [Chart](https://www.tradingview.com/chart/?symbol=HSY) | The Hershey Company | HSY |
-| 17 | 92 | $13.88 | [Chart](https://www.tradingview.com/chart/?symbol=TSLT) | T-REX 2X Long Tesla Daily Target ETF | TSLT |
-| 22 | 91 | $32.33 | [Chart](https://www.tradingview.com/chart/?symbol=INVH) | Invitation Homes Inc. Common Stock | INVH |
+| 13 | 95 | $13.76 | [Chart](https://www.tradingview.com/chart/?symbol=TSLT) | T-REX 2X Long Tesla Daily Target ETF | TSLT |
+| 10 | 94 | $21.74 | [Chart](https://www.tradingview.com/chart/?symbol=TUA) | Simplify Short Term Treasury Futures Strategy ETF | TUA |
+| 9 | 93 | $48.83 | [Chart](https://www.tradingview.com/chart/?symbol=SNY) | Sanofi American Depositary Shares (Each representing one-half of one ordinary share) | SNY |
+| 13 | 92 | $161.95 | [Chart](https://www.tradingview.com/chart/?symbol=HSY) | The Hershey Company | HSY |
+| 21 | 91 | $32.27 | [Chart](https://www.tradingview.com/chart/?symbol=INVH) | Invitation Homes Inc. Common Stock | INVH |
+| 13 | 90 | $69.13 | [Chart](https://www.tradingview.com/chart/?symbol=BRC) | Brady Corporation | BRC |
 | 14 | 89 | $110.16 | [Chart](https://www.tradingview.com/chart/?symbol=SHV) | iShares Short Treasury Bond ETF | SHV |
-| 17 | 89 | $34.59 | [Chart](https://www.tradingview.com/chart/?symbol=PECO) | Phillips Edison & Company, Inc. Common Stock | PECO |
-| 12 | 88 | $71.24 | [Chart](https://www.tradingview.com/chart/?symbol=RLI) | RLI Corp. | RLI |
-| 13 | 88 | $20.13 | [Chart](https://www.tradingview.com/chart/?symbol=CON) | Concentra Group Holdings Parent, Inc. | CON |
-| 22 | 88 | $47.56 | [Chart](https://www.tradingview.com/chart/?symbol=KBR) | KBR, Inc. | KBR |
-| 21 | 87 | $104.35 | [Chart](https://www.tradingview.com/chart/?symbol=DEO) | Diageo plc | DEO |
-| 22 | 87 | $13.97 | [Chart](https://www.tradingview.com/chart/?symbol=DOLE) | Dole plc | DOLE |
-| 26 | 87 | $60.74 | [Chart](https://www.tradingview.com/chart/?symbol=UL) | Unilever plc | UL |
-| 14 | 86 | $82.47 | [Chart](https://www.tradingview.com/chart/?symbol=SHY) | iShares 1-3 Year Treasury Bond ETF | SHY |
-| 14 | 86 | $22.39 | [Chart](https://www.tradingview.com/chart/?symbol=IBTH) | iShares iBonds Dec 2027 Term Treasury ETF | IBTH |
-| 15 | 86 | $59.88 | [Chart](https://www.tradingview.com/chart/?symbol=FTSM) | First Trust Enhanced Short Maturity ETF | FTSM |
-| 16 | 86 | $36.48 | [Chart](https://www.tradingview.com/chart/?symbol=PBA) | PEMBINA PIPELINE CORPORATION | PBA |
-| 21 | 86 | $20.40 | [Chart](https://www.tradingview.com/chart/?symbol=SPT) | Sprout Social, Inc Class A Common Stock | SPT |
-| 19 | 84 | $25.23 | [Chart](https://www.tradingview.com/chart/?symbol=TBBB) | BBB Foods Inc. | TBBB |
-| 22 | 84 | $77.40 | [Chart](https://www.tradingview.com/chart/?symbol=AWR) | American States Water Company | AWR |
-| 17 | 83 | $26.76 | [Chart](https://www.tradingview.com/chart/?symbol=IVT) | InvenTrust Properties Corp. | IVT |
-| 31 | 83 | $461.99 | [Chart](https://www.tradingview.com/chart/?symbol=LMT) | Lockheed Martin Corp. | LMT |
-| 22 | 81 | $23.95 | [Chart](https://www.tradingview.com/chart/?symbol=EWM) | iShares MSCI Malaysia ETF | EWM |
-| 24 | 81 | $40.84 | [Chart](https://www.tradingview.com/chart/?symbol=UDR) | UDR, Inc. | UDR |
-| 28 | 81 | $119.77 | [Chart](https://www.tradingview.com/chart/?symbol=ITGR) | Integer Holdings Corporation | ITGR |
-| 35 | 81 | $18.46 | [Chart](https://www.tradingview.com/chart/?symbol=S) | SentinelOne, Inc. | S |
-| 24 | 80 | $19.05 | [Chart](https://www.tradingview.com/chart/?symbol=MSDL) | Morgan Stanley Direct Lending Fund | MSDL |
-| 24 | 79 | $296.48 | [Chart](https://www.tradingview.com/chart/?symbol=ACN) | Accenture PLC | ACN |
-| 25 | 79 | $30.88 | [Chart](https://www.tradingview.com/chart/?symbol=AXTA) | Axalta Coating Systems Ltd. | AXTA |
-| 26 | 79 | $35.67 | [Chart](https://www.tradingview.com/chart/?symbol=AMH) | AMERICAN HOMES 4 RENT | AMH |
-| 32 | 77 | $349.75 | [Chart](https://www.tradingview.com/chart/?symbol=SHW) | The Sherwin-Williams Company | SHW |
-| 32 | 76 | $89.89 | [Chart](https://www.tradingview.com/chart/?symbol=LPX) | Louisiana-Pacific Corp. | LPX |
-| 34 | 76 | $104.53 | [Chart](https://www.tradingview.com/chart/?symbol=CROX) | Crocs, Inc. | CROX |
-| 29 | 74 | $66.69 | [Chart](https://www.tradingview.com/chart/?symbol=EQR) | Equity Residential | EQR |
-| 30 | 74 | $39.60 | [Chart](https://www.tradingview.com/chart/?symbol=LZB) | La-Z-Boy Incorporated | LZB |
-| 28 | 72 | $11.51 | [Chart](https://www.tradingview.com/chart/?symbol=PTLO) | Portillo's Inc. Class A Common Stock | PTLO |
-| 35 | 72 | $166.97 | [Chart](https://www.tradingview.com/chart/?symbol=EGP) | EastGroup Properties Inc. | EGP |
-| 33 | 69 | $239.57 | [Chart](https://www.tradingview.com/chart/?symbol=RNR) | RenaissanceRe Holdings Ltd. | RNR |
-| 32 | 68 | $25.57 | [Chart](https://www.tradingview.com/chart/?symbol=BRX) | BRIXMOR PROPERTY GROUP INC. | BRX |
-| 37 | 68 | $22.27 | [Chart](https://www.tradingview.com/chart/?symbol=KRG) | Kite Realty Group Trust | KRG |
-| 33 | 67 | $16.36 | [Chart](https://www.tradingview.com/chart/?symbol=PLSE) | Pulse Biosciences, Inc Common Stock (DE) | PLSE |
-| 34 | 67 | $41.45 | [Chart](https://www.tradingview.com/chart/?symbol=XLRE) | Real Estate Select Sector SPDR Fund | XLRE |
-| 38 | 67 | $102.30 | [Chart](https://www.tradingview.com/chart/?symbol=FMX) | FOMENTO ECONOMICO MEXICANO, S.A.B. DE C.V. | FMX |
+| 25 | 89 | $86.33 | [Chart](https://www.tradingview.com/chart/?symbol=SIGI) | Selective Insurance Group | SIGI |
+| 17 | 87 | $34.57 | [Chart](https://www.tradingview.com/chart/?symbol=PECO) | Phillips Edison & Company, Inc. Common Stock | PECO |
+| 21 | 87 | $13.97 | [Chart](https://www.tradingview.com/chart/?symbol=DOLE) | Dole plc | DOLE |
+| 23 | 86 | $15.86 | [Chart](https://www.tradingview.com/chart/?symbol=BNL) | Broadstone Net Lease, Inc. | BNL |
+| 23 | 86 | $47.72 | [Chart](https://www.tradingview.com/chart/?symbol=KBR) | KBR, Inc. | KBR |
+| 26 | 86 | $60.80 | [Chart](https://www.tradingview.com/chart/?symbol=UL) | Unilever plc | UL |
+| 15 | 85 | $59.88 | [Chart](https://www.tradingview.com/chart/?symbol=FTSM) | First Trust Enhanced Short Maturity ETF | FTSM |
+| 22 | 85 | $104.74 | [Chart](https://www.tradingview.com/chart/?symbol=DEO) | Diageo plc | DEO |
+| 18 | 84 | $25.19 | [Chart](https://www.tradingview.com/chart/?symbol=TBBB) | BBB Foods Inc. | TBBB |
+| 22 | 83 | $20.56 | [Chart](https://www.tradingview.com/chart/?symbol=SPT) | Sprout Social, Inc Class A Common Stock | SPT |
+| 30 | 83 | $463.06 | [Chart](https://www.tradingview.com/chart/?symbol=LMT) | Lockheed Martin Corp. | LMT |
+| 22 | 82 | $77.65 | [Chart](https://www.tradingview.com/chart/?symbol=AWR) | American States Water Company | AWR |
+| 22 | 80 | $23.98 | [Chart](https://www.tradingview.com/chart/?symbol=EWM) | iShares MSCI Malaysia ETF | EWM |
+| 35 | 80 | $18.52 | [Chart](https://www.tradingview.com/chart/?symbol=S) | SentinelOne, Inc. | S |
+| 24 | 79 | $40.72 | [Chart](https://www.tradingview.com/chart/?symbol=UDR) | UDR, Inc. | UDR |
+| 24 | 79 | $19.10 | [Chart](https://www.tradingview.com/chart/?symbol=MSDL) | Morgan Stanley Direct Lending Fund | MSDL |
+| 29 | 79 | $120.47 | [Chart](https://www.tradingview.com/chart/?symbol=ITGR) | Integer Holdings Corporation | ITGR |
+| 25 | 78 | $35.51 | [Chart](https://www.tradingview.com/chart/?symbol=AMH) | AMERICAN HOMES 4 RENT | AMH |
+| 25 | 77 | $297.40 | [Chart](https://www.tradingview.com/chart/?symbol=ACN) | Accenture PLC | ACN |
+| 31 | 71 | $39.94 | [Chart](https://www.tradingview.com/chart/?symbol=LZB) | La-Z-Boy Incorporated | LZB |
+| 34 | 71 | $166.84 | [Chart](https://www.tradingview.com/chart/?symbol=EGP) | EastGroup Properties Inc. | EGP |
+| 33 | 69 | $89.19 | [Chart](https://www.tradingview.com/chart/?symbol=VNQ) | Vanguard Real Estate ETF | VNQ |
+| 33 | 68 | $240.25 | [Chart](https://www.tradingview.com/chart/?symbol=RNR) | RenaissanceRe Holdings Ltd. | RNR |
+| 35 | 68 | $56.44 | [Chart](https://www.tradingview.com/chart/?symbol=USRT) | iShares Core U.S. REIT ETF | USRT |
+| 37 | 66 | $102.46 | [Chart](https://www.tradingview.com/chart/?symbol=FMX) | FOMENTO ECONOMICO MEXICANO, S.A.B. DE C.V. | FMX |
+| 38 | 65 | $58.71 | [Chart](https://www.tradingview.com/chart/?symbol=ESNT) | Essent Group LTD | ESNT |
 
 ## **Methodology**
 
